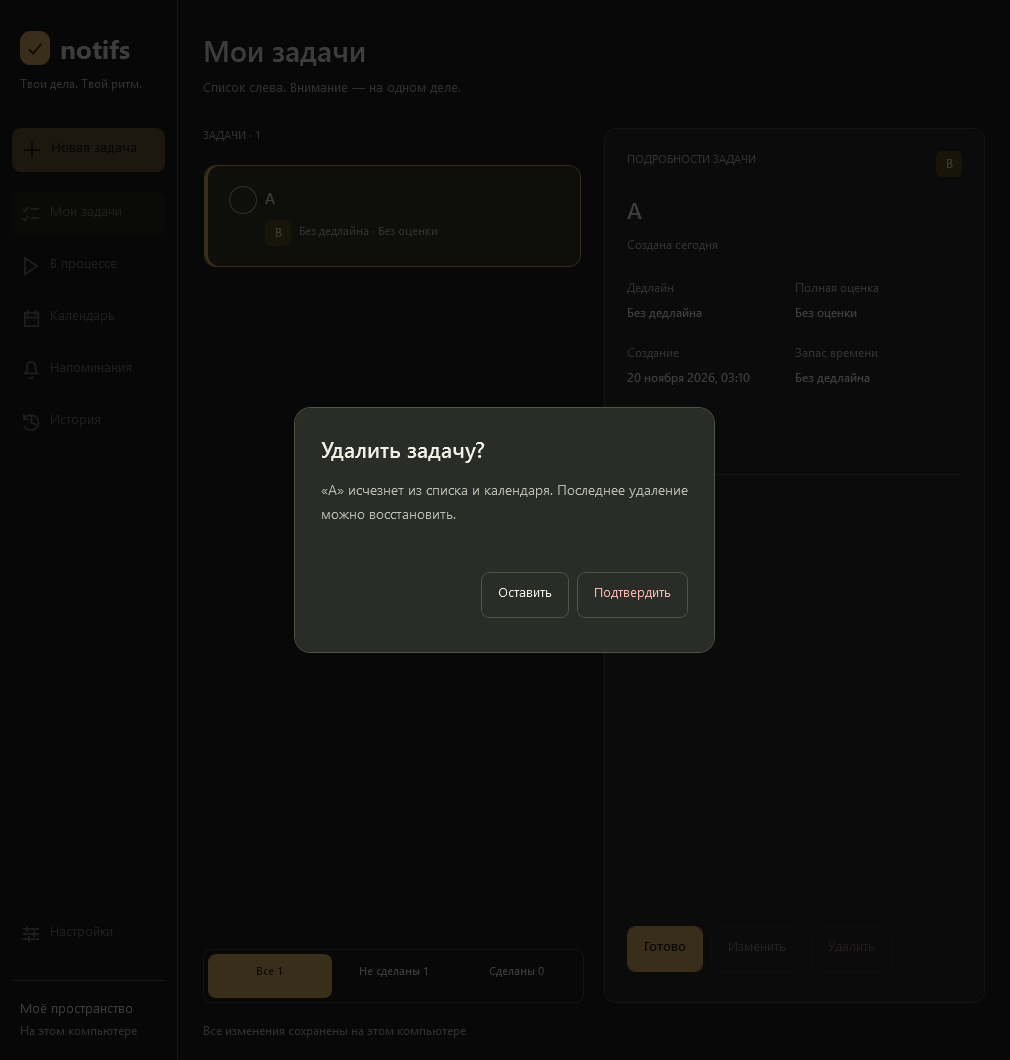
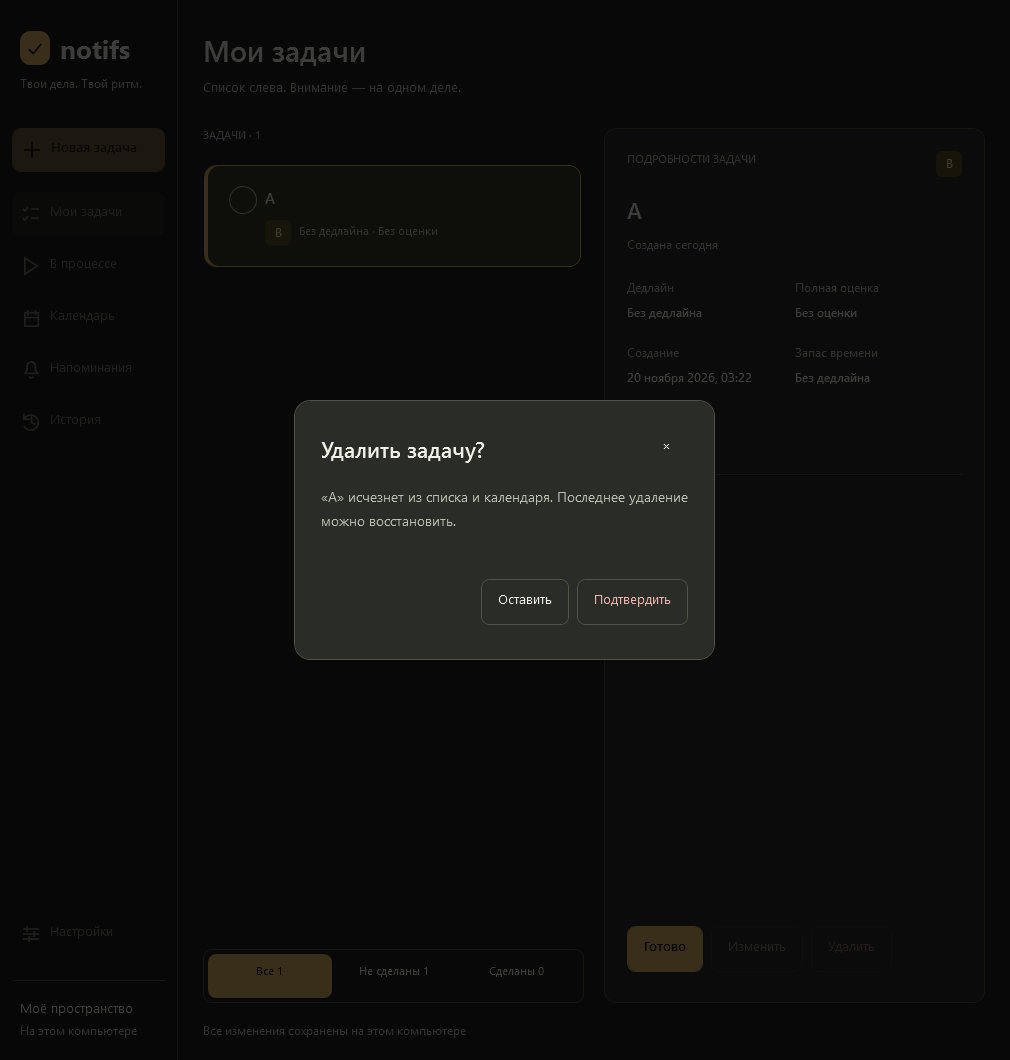
Record notification QA, final screenshots and full scenario results

diff --git a/tests/Notifs.Scenarios/NotificationUiScenario.cs b/tests/Notifs.Scenarios/NotificationUiScenario.cs
@@ -44,6 +44,7 @@ internal static partial class UiScenario
         await IdleAsync();
         Assert(other.IsActive && ReferenceEquals(Keyboard.FocusedElement, input), "native arrival of three cards preserves the foreground window and typing focus");
         Assert(output.Window is { ShowActivated: false, ShowInTaskbar: false, IsVisible: true } && output.VisibleEvents.Select(x => x.Id).SequenceEqual(new[] { b.Id, c.Id }), "native stack shows B above C without activation or taskbar entry");
+        await Task.Delay(250); // Measure the settled layout after the approved 180 ms entrance.
         var work = SystemParameters.WorkArea;
         Assert(Math.Abs(output.Window.Left + output.Window.ActualWidth - work.Right + 22) < 1 && Math.Abs(output.Window.Top + output.Window.ActualHeight - work.Bottom + 22) < 1,
             "native stack anchors twenty-two DIP from primary work-area right and bottom edges");
@@ -87,6 +88,7 @@ internal static partial class UiScenario
         await runtime.RunOnceAsync();
         await IdleAsync();
         Assert(output.VisibleEvents.Count == 2, "runtime delivers a batch of two independent saved personal reminders");
+        await Task.Delay(250); // Capture the final geometry, not a frame of the entrance animation.
         SaveImage(output.Window, "issue-4-personal-native.png");
         other.Close(); main.Close();
     }

diff --git a/docs/qa/issue-4-personal-notifications.md b/docs/qa/issue-4-personal-notifications.md
@@ -18,7 +18,7 @@
 
 Доставка проверена с выходом, записывающим события: A/B/C → B/C, исчезновение одной/всех, отсутствие возврата скрытых событий, ограничение звука и удаление только строки сводки при сохранении независимого вопроса.
 
-Настоящие WPF-окна: черновик после навигации/повторного открытия, две последовательные `*`, Undo, совместное переключение жирного и курсива, отказ от новой формы, ошибка повтора без изменения планировщика, атомарное применение расписания. Проверены подтверждение/отмена/удаление/восстановление, немедленная доступность кнопки подтверждения, настройки и валидация, две нативные карточки более 11 секунд, скрытие/сворачивание стека и «Готово» настоящего личного события через прикладную команду. Редактор проверен при клиентских ширинах 1010/768/375/320 DIP без горизонтального переполнения.
+Настоящие WPF-окна: черновик после навигации/повторного открытия, две последовательные `*`, Undo, совместное переключение жирного и курсива, отказ от новой формы, ошибка повтора без изменения планировщика, атомарное применение расписания. Проверены подтверждение/отмена/удаление/восстановление, немедленная доступность кнопки подтверждения, настройки и валидация, две нативные карточки более 11 секунд, скрытие/сворачивание стека, открытие подробностей без редактора, «Готово» и обычная отсрочка настоящего личного события через прикладные команды. Измерены конечная геометрия после анимации: ширина 365 DIP, отступы справа/снизу рабочей области 22 DIP, зазор 10 DIP и высота всех действий не менее 44 DIP. Редактор проверен при клиентских ширинах 1010/768/375/320 DIP без горизонтального переполнения. Регрессионный сценарий восстанавливает A во время редактирования B: удаление остаётся привязано к B, Ctrl+S под панелью запрещён, отмена сохраняет исходную задачу и независимый черновик.
 
 ## Нативный опыт с отдельным процессом
 
@@ -44,6 +44,20 @@
 
 Не заявляются готовыми соседние #14/#15/#16/#17/#7/#20: стабильность под указателем, другие мониторы/fullscreen, занятия, вопрос по активному времени, предметная сводка и объединение реальных пропусков. Трей/автозапуск относятся к отдельному этапу. Физическая смена DPI монитора, сон/пробуждение ОС, экранный диктор, реальный клик мышью по окну `TOOLWINDOW` и слышимость сигнала остаются непроверенными. Команды кнопок нативного окна проверены через WPF routed event. Управляемые часы и отдельный процесс печати не заменяют эти проверки.
 
-## Ревью и полный прогон
+## Standards
 
-Результаты независимого ревью и финального полного прогона добавляются после проверки.
+Первичное независимое ревью: 2 P2. Ctrl+S обходил модальную изоляцию; кнопки заголовка и «Скрыть все» не выдерживали минимальную высоту 44 DIP. Исправлено: сочетание учитывает `CanNavigate`, целевые высоты — 44 DIP, бюджет стека пересчитан. Повторное ревью `00644c5...9b17719`: **0 нерешённых замечаний**; новых существенных нарушений стандартов не обнаружено.
+
+## Spec
+
+Первичное независимое ревью: 1 P1, 1 P2, 1 P3. Восстановление другой задачи могло менять цель удаления открытого редактора; Ctrl+S сохранял редактор под подтверждением; отсутствовал крестик отмены. Исправлено: цель берётся из `editor.SavedTask`, глобальное сохранение блокируется, добавлено доступное закрытие той же командой отмены. Повторное ревью: **0 нерешённых существенных замечаний**. Непрошенных изменений не обнаружено.
+
+Итого первичного ревью: Standards — 2 P2; Spec — P1/P2/P3. Все исправлены. Повторное: Standards — 0, Spec — 0.
+
+## Полный прогон
+
+20 ноября 2026, Windows x64, SDK .NET 10.0.404: **252 PASS, код выхода 0**. Полный сценарный стенд #2/#3/#4/#11/#12 включает 200 задач, ошибки чтения/записи, миграцию старой базы, удержание выполненной карточки, WPF-формы, узкие состояния, увеличение содержимого 150%/200% и новые сценарии выше. Release-сборка — **0 предупреждений, 0 ошибок**.
+
+Команды: `.scratch/dotnet/dotnet.exe build Notifs.slnx --configuration Release --no-restore -m:1 -nr:false -p:UseSharedCompilation=false`, затем `.scratch/dotnet/dotnet.exe tests/Notifs.Scenarios/bin/Release/net10.0-windows/Notifs.Scenarios.dll`. Локальный журнал — `.artifacts/issue-4-full.log`. Первый полный запуск остановился после 116 проверок на запрете песочницы перемещать временный файл базы в старом сценарии имитации ошибки; повторный полный прогон с разрешённой файловой операцией прошёл все 252 проверки. Продуктовый код для обхода этого запрета не менялся.
+
+После ревью тест снимка дополнительно ожидает завершения входа 180 мс, чтобы PNG фиксировал окончательный зазор, а не промежуточный кадр. Итоговые снимки обновлены после полного прогона.
